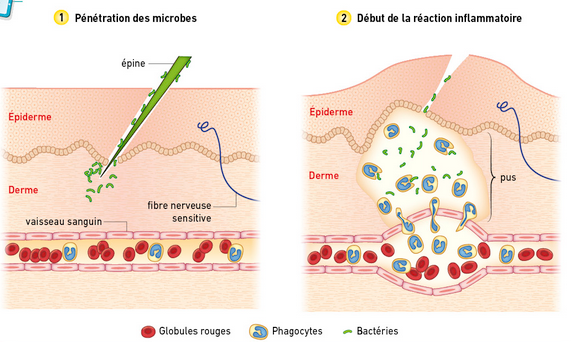
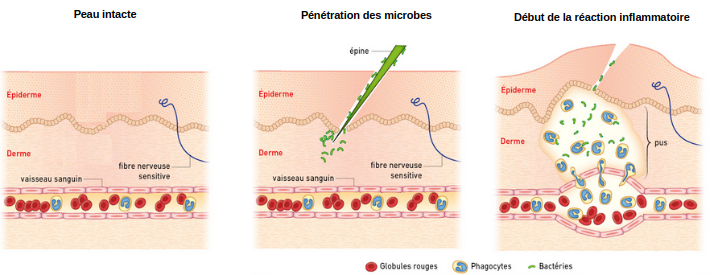
ppcr

diff --git a/docs/3e/systImmun/inflammation.md b/docs/3e/systImmun/inflammation.md
@@ -7,8 +7,7 @@
 
 !!! warning "Consignes"
 
-    1. A partir des documents, expliquer sous la forme d'un schéma focntionnel la rougeur et le gonflement.
-    2. Expliquer l'intéret pour le corps de la réaction inflammatoire.
+    1. A partir des documents, expliquer sous la forme d'un schéma focntionnel les réactions du corps au niveau d'une blessure. Votre réponse devra expliquer comment le corps élimine les bactéries.
 
 ??? bug "Critères de réussite"
 
@@ -17,7 +16,10 @@
     - Avoir expliqué le lien entre gonflement et accumulation de cellules
 
 
-Cette réaction s’accompagne d’un gonflement, d’une rougeur et d’une augmentation de la température de la zone. Il peut aussi y avoir une douleur. La couleur de la peau dépend en partie de la quantité de sang qui passent dans les vaisseaux sanguins.
+Cette réaction s’accompagne d’un gonflement, d’une rougeur et d’une augmentation de la température de la zone. Il peut aussi y avoir une douleur. 
+
+
+
 
 **document 1 blessure**
 
@@ -33,7 +35,7 @@ bactérie rentre et des médiateurs chimiques sont libérés.
 <div markdown style="display: flex; flex: 2 1 0; flex-direction: column;">
 Lors d'une contamination, des molécules sont libérées, cela va entraîner une dilatation des vaisseaux sanguins. Les vaisseaux sanguins vont grossir au niveau de la contamination.
 
-Les molécules libérées vont aussi attirer des leucocytes. Les leucocytes présents dans le sang vont traverser la paroi des vaisseaux sanguins, accompagnés d’un peu de plasma sanguin (=partie liquide du sang)tous ces phénomènes vont entraîner une rougeur, un gonflement et de la chaleur au niveau de la zone infectée.
+Les molécules libérées vont aussi attirer des leucocytes. Les leucocytes présents dans le sang vont traverser la paroi des vaisseaux sanguins, accompagnés d’un peu de plasma sanguin (=partie liquide du sang). tous ces phénomènes vont entraîner une rougeur, un gonflement et de la chaleur au niveau de la zone infectée.
 
 </div></div>
 
@@ -41,7 +43,7 @@ Les molécules libérées vont aussi attirer des leucocytes. Les leucocytes pré
 
 le diamètre des vaisseaux sanguins détermine le débit sanguin et donc la quantité de sang qui circule à cet endroit
 en se dilatant, la paroi des vaisseaux sanguins devient plus perméable et des éléments du sang peuvent sortir
-
+La couleur de la peau dépend en partie de la quantité de sang qui passent dans les vaisseaux sanguins.
 
 
 **document 4 sang**
@@ -56,7 +58,7 @@ Quelques heures après une blessure, une réaction inflammatoire apparaît, acco
 
 <iframe src="https://lycees.netocentre.fr/POD/video/7958-reaction-inflammatoire/?is_iframe=true&loop=true" width="640" height="360" style="padding: 0; margin: 0; border:0" allowfullscreen ></iframe>
 
-<iframe width="560" height="315" src="https://www.youtube-nocookie.com/embed/_5ZymOPk1Jk?si=o-UgoV47iDe_W3Jo" title="YouTube video player" frameborder="0" allow="accelerometer; autoplay; clipboard-write; encrypted-media; gyroscope; picture-in-picture; web-share" referrerpolicy="strict-origin-when-cross-origin" allowfullscreen></iframe>
+
 
 
 
@@ -66,7 +68,7 @@ Quelques heures après une blessure, une réaction inflammatoire apparaît, acco
 
 
 
-**Document 2 Schématisation de la réaction inflammatoire.**
+**Document 2 La réaction inflammatoire.**
 
 ![](Pictures/schemaReactionInfla.png)
 
@@ -80,7 +82,7 @@ La phagocytose est une méthode de défense assurée par certains leucocytes app
 
 ![](Pictures/schemaPhagocytose.png)
 
-
+<iframe width="560" height="315" src="https://www.youtube-nocookie.com/embed/_5ZymOPk1Jk?si=o-UgoV47iDe_W3Jo" title="YouTube video player" frameborder="0" allow="accelerometer; autoplay; clipboard-write; encrypted-media; gyroscope; picture-in-picture; web-share" referrerpolicy="strict-origin-when-cross-origin" allowfullscreen></iframe>
 
 ??? note-prof "correction"
 
